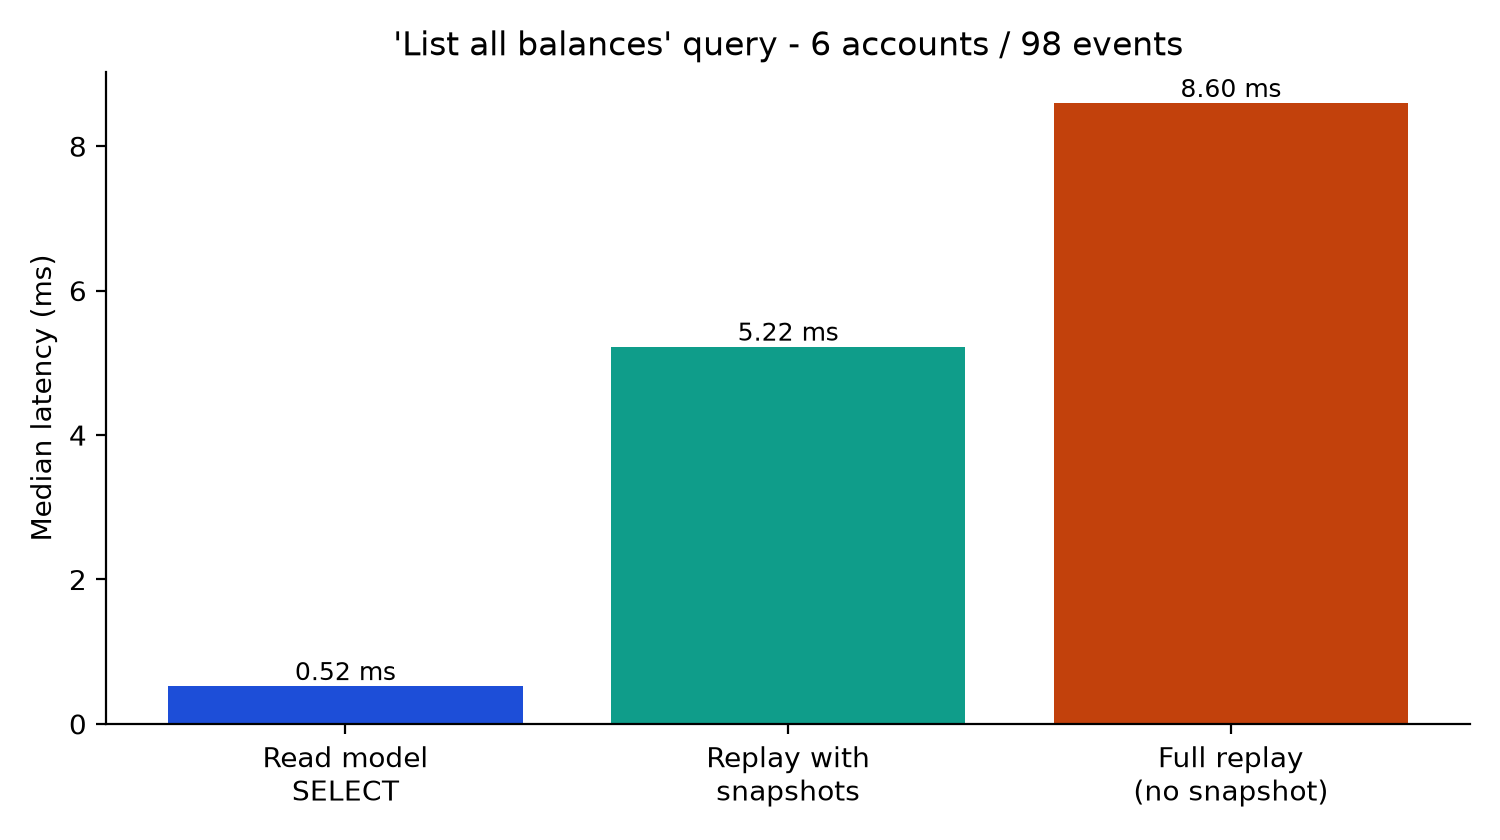
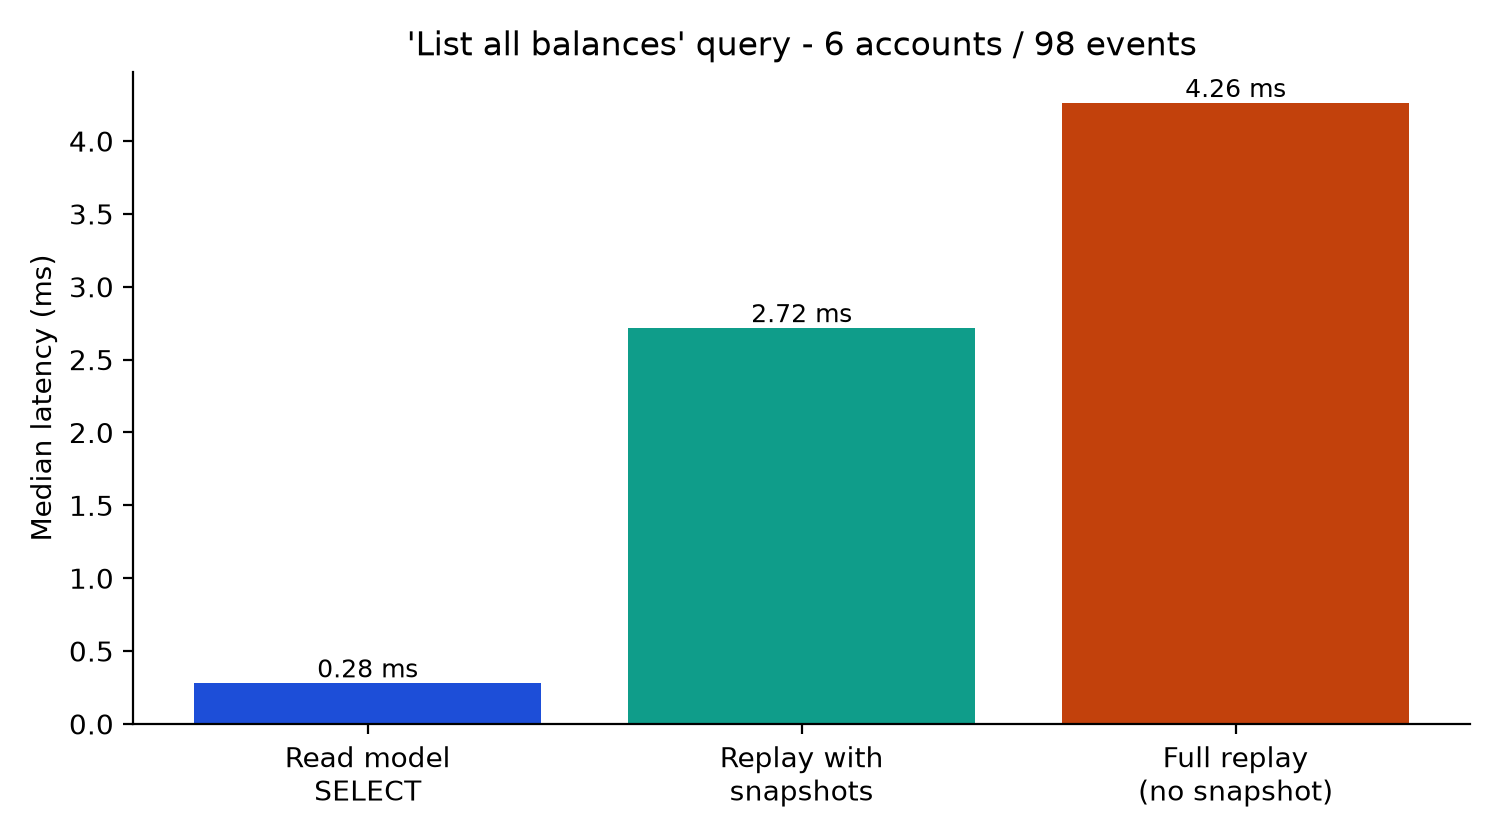
Update benchmarks measured on team PC (BI1 Group 6)

diff --git a/README.md b/README.md
@@ -143,8 +143,8 @@ scripts/        Windows setup / start scripts used by the .bat files
 | `/alerts/` | read model | webhook outbox (sent) and inbox (received, HMAC valid) |
 | `/system/` | both | configuration, projector checkpoint and lag, **Run verification gate**, **Wipe & rebuild read model** |
 
-## 7. Measured performance (development laptop)
-Measured by `python manage.py benchmark --lag` on 10 Nov 2026 (19:50 UTC), on an AMD Ryzen 3 7320U with 5.7 GB RAM, Windows 11,
+## 7. Measured performance (team PC)
+Measured by `python manage.py benchmark --lag` on 10 Nov 2026 (23:34 UTC), on a 13th Gen Intel Core i5-13450HX with 16 GB RAM, Windows 11,
 Python 3.12 and embedded PostgreSQL 16, on the clean demo data (6 accounts, 98 events). Raw data:
 [benchmarks/results/benchmark_embedded.json](benchmarks/results/benchmark_embedded.json).
 Re-run the command on your own PC. The JSON file and the charts are rewritten in `benchmarks/results/`.
@@ -152,13 +152,13 @@ Stream lengths are deliberately **not** multiples of the snapshot interval, so e
 
 | Measurement (median after warm-up; 15–40 runs) | Result |
 |---|---|
-| Rebuild a 2,550-event account, full left-fold | 134.3 ms |
-| Same from the snapshot at v2,500 + 50 delta events | 3.77 ms (≈ 36× faster) |
-| Rebuild a 150-event account: full / snapshot + 50 delta | 8.6 ms / 3.8 ms |
-| "List all balances" (6 accounts, 98 events): read-model SELECT | 0.52 ms |
-| Same by replaying the streams: with snapshots / without | 5.22 ms / 8.60 ms |
-| Write throughput (load + decide + atomic append, one command at a time, 1 event each) | 160–191 commands/s |
-| Eventual-consistency lag (projector polls every 0.2 s, 40 probes) | median 207 ms · p95 239 ms |
+| Rebuild a 2,550-event account, full left-fold | 65.2 ms |
+| Same from the snapshot at v2,500 + 50 delta events | 1.94 ms (≈ 34× faster) |
+| Rebuild a 150-event account: full / snapshot + 50 delta | 4.1 ms / 1.71 ms |
+| "List all balances" (6 accounts, 98 events): read-model SELECT | 0.28 ms |
+| Same by replaying the streams: with snapshots / without | 2.72 ms / 4.26 ms |
+| Write throughput (load + decide + atomic append, one command at a time, 1 event each) | 351–403 commands/s |
+| Eventual-consistency lag (projector polls every 0.2 s, 40 probes) | median 204 ms · p95 207 ms |
 
 ## 8. Troubleshooting
 * **The read model is not updated** / "projector not running?" → START.bat opens a second window running `run_projector`. Keep it open.

diff --git a/docs/DEFENSE_QA.md b/docs/DEFENSE_QA.md
@@ -15,8 +15,8 @@ When two writers load version 13 and both try to insert version 14 (our "Concurr
 If the account has moved on, we raise `ConcurrencyConflict` before even trying. Nothing is locked while the user reads, hence "optimistic".
 
 **Q4. Why are snapshots needed? Don't they break immutability?**
-Replaying 2,550 events took 134.3 ms in our measurement; starting from the snapshot at v2,500 and replaying the 50 delta
-events took 3.77 ms (≈ 36× faster). A snapshot is
+Replaying 2,550 events took 65.2 ms in our measurement; starting from the snapshot at v2,500 and replaying the 50 delta
+events took 1.94 ms (≈ 34× faster). A snapshot is
 only a cache of the state at version N, stored separately. Events are never changed, and the verification gate checks
 that every snapshot equals the full replay.
 
@@ -26,7 +26,7 @@ to `FundsDeposited`), we set `class_version = 2` and write `upcast_v1_v2()`, whi
 old event is read. The demo contains a real v1 row (Karim's legacy deposit).
 
 **Q6. What is eventual consistency? Isn't it dangerous for a bank?**
-The read model is updated asynchronously, about 207 ms (median, p95 239 ms) after the write in our benchmark. Business
+The read model is updated asynchronously, about 204 ms (median, p95 207 ms) after the write in our benchmark. Business
 decisions (enough funds? right version?) are always taken on the **write side**, which is strongly consistent, because the
 aggregate is rebuilt from the event store. Only the screens can be a fraction of a second behind, and the UI waits
 for its own writes ("read your writes").
@@ -60,7 +60,7 @@ It is a mature library (John Bywater, v9.5) that provides aggregates, the `@even
 an ordered notification log, snapshots and upcasting. We focused on the business domain, the projections and the verification.
 
 **Q13. Where are the numbers in your slides from?**
-From `python manage.py benchmark --lag` (JSON in `benchmarks/results/`), measured on our laptop on 10 Nov 2026.
+From `python manage.py benchmark --lag` (JSON in `benchmarks/results/`), measured on our team PC (Intel Core i5-13450HX, 16 GB RAM) on 10 Nov 2026.
 Anyone can re-run it. Nothing is estimated or invented.
 
 **Q14. How do you deploy it?**
